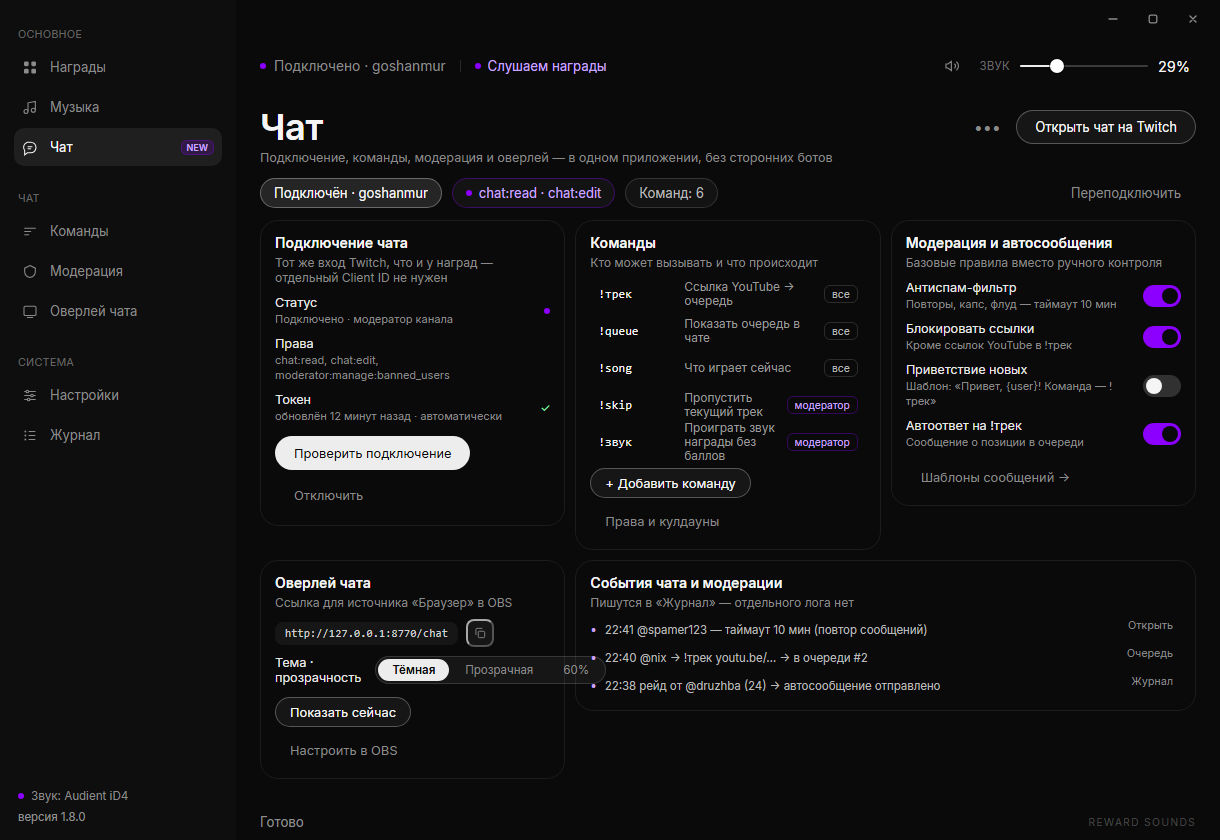
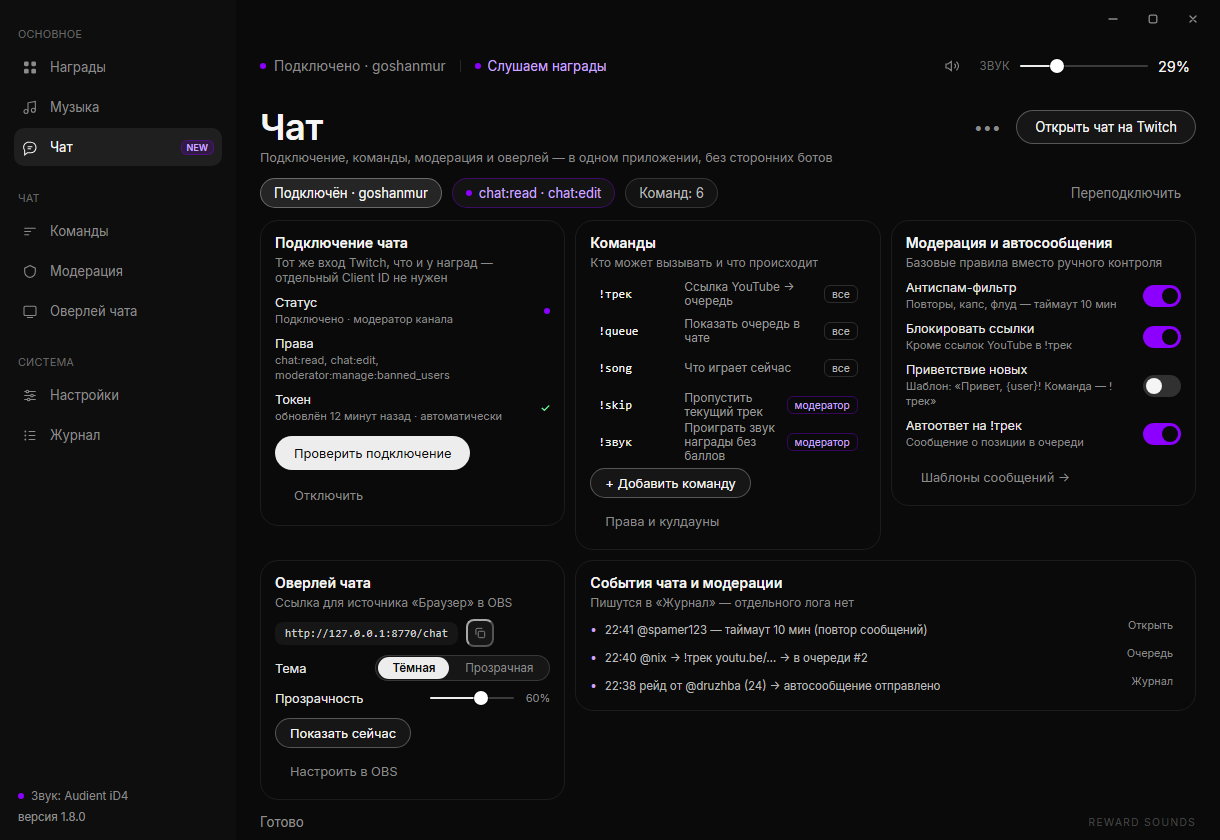
design: исправить макет оверлея чата; backend: реальный статус чата и оверлея
- макет chat-tab: «Тема» и «Прозрачность» разведены на отдельные строки
  (сегмент темы + слайдер прозрачности 60%), перегенерирован PNG;
- Snapshot музыки получил chat_online/overlay_ready: чат-ридер сообщает
  о подключении, HTTP-оверлей — о занятом порте; это основа статус-хаба;
- старый egui-демо и примеры обновлены под новые поля.

Changed region(s): [[0.218, 0.7738, 0.4984, 0.9286]]

diff --git a/.design/ux-review/2026-11-r2/mockups/chat-tab.html b/.design/ux-review/2026-11-r2/mockups/chat-tab.html
@@ -127,8 +127,13 @@
             <code>http://127.0.0.1:8770/chat</code>
             <button class="copy-btn"><svg width="14" height="14" viewBox="0 0 24 24" fill="none" stroke="#8B8B8B" stroke-width="1.6"><rect x="9" y="9" width="11" height="11" rx="2"/><path d="M5 15V6a2 2 0 0 1 2-2h9"/></svg></button>
           </div>
-          <div class="settings-row"><div><div class="settings-row-title">Тема · прозрачность</div></div>
-            <div class="seg" style="height:28px"><button class="seg-item active" style="height:22px;font-size:11.5px">Тёмная</button><button class="seg-item" style="height:22px;font-size:11.5px">Прозрачная</button><button class="seg-item" style="height:22px;font-size:11.5px">60%</button></div></div>
+          <div class="settings-row"><div class="settings-row-title">Тема</div>
+            <div class="seg" style="height:26px"><button class="seg-item active" style="height:22px;font-size:11.5px">Тёмная</button><button class="seg-item" style="height:22px;font-size:11.5px">Прозрачная</button></div></div>
+          <div class="settings-row"><div class="settings-row-title">Прозрачность</div>
+            <div class="mock-slider-row">
+              <div class="slider mock-slider"><div class="track"></div><div class="fill" style="width:60%"></div><div class="knob" style="left:60%"></div></div>
+              <span class="mock-slider-value">60%</span>
+            </div></div>
           <div class="settings-actions"><button class="btn btn-sm btn-secondary">Показать сейчас</button><button class="btn btn-sm btn-ghost">Настроить в OBS</button></div>
         </div>
 

diff --git a/.design/ux-review/2026-11-r2/mockups/mock.css b/.design/ux-review/2026-11-r2/mockups/mock.css
@@ -225,3 +225,9 @@ body {
 .zone-danger { border: 1px solid rgba(239,68,68,.25); border-radius: 12px; padding: 10px 12px; background: rgba(239,68,68,.04); }
 .zone-danger .zt { font-size: 10px; letter-spacing: .8px; color: #FCA5A5; font-weight: 600; margin-bottom: 8px; }
 .hint-ok { font-size: 11.4px; color: #86EFAC; }
+
+/* Оверлей чата: тема и прозрачность — разные строки, не один сегмент. */
+.mock-slider-row { display: flex; align-items: center; gap: 8px; flex: 0 0 auto; }
+.mock-slider { width: 84px; }
+.mock-slider-value { font-size: 11px; color: #8B8B8B; min-width: 28px; text-align: right; }
+.settings-row .seg { flex: 0 0 auto; }

diff --git a/reward-sounds/src/music/service.rs b/reward-sounds/src/music/service.rs
@@ -80,6 +80,10 @@ pub struct Snapshot {
     /// Размер шрифта оверлея.
     pub overlay_font: u32,
     pub error: Option<String>,
+    /// Чат канала подключён: команда `!трек` действительно доступна.
+    pub chat_online: bool,
+    /// HTTP-оверлей поднялся и слушает порт.
+    pub overlay_ready: bool,
 }
 
 impl Snapshot {
@@ -148,6 +152,8 @@ pub(super) enum Cmd {
     Recheck,
     SetPaused(bool),
     SetVolume(f32),
+    /// Состояние подключения к чату (true — читаем сообщения).
+    ChatState(bool),
     Validated(Result<QueueItem, (String, String)>),
     AudioReady {
         video_id: String,
@@ -323,6 +329,8 @@ fn run(
     let mut start_generation: u64 = 0;
     /// Видели ли, что текущий трек действительно играет (позиция внутри).
     let mut seen_running = false;
+    /// Подключён ли читатель чата (команда `!трек` реально доступна).
+    let mut chat_online = false;
 
     let data_dir = temp_dir
         .parent()
@@ -593,6 +601,9 @@ fn run(
                     );
                 }
             }
+            Ok(Cmd::ChatState(online)) => {
+                chat_online = online;
+            }
             Ok(Cmd::Replay(redemption_id)) => {
                 if let Some(item) = queue
                     .items()
@@ -787,6 +798,7 @@ fn run(
             };
             snapshot.overlay_position = config.overlay_position.clone();
             snapshot.overlay_font = config.overlay_font;
+            snapshot.chat_online = chat_online;
             snapshot.error = if version.is_none() {
                 Some("yt-dlp не найден: положите yt-dlp.exe рядом с программой".to_string())
             } else {

diff --git a/reward-sounds/src/music/chat.rs b/reward-sounds/src/music/chat.rs
@@ -15,7 +15,6 @@ use std::thread;
 use std::time::Duration;
 
 use super::service::Cmd;
-
 /// Команды, которые показывают оверлей.
 const COMMANDS: [&str; 2] = ["!трек", "!track"];
 
@@ -26,6 +25,7 @@ pub fn spawn(channel: &str, tx: Sender<Cmd>) {
     let channel = channel.trim().to_lowercase();
     if channel.is_empty() {
         log::info!("Чат: канал не известен, команда !трек недоступна");
+        let _ = tx.send(Cmd::ChatState(false));
         return;
     }
 
@@ -43,6 +43,7 @@ pub fn spawn(channel: &str, tx: Sender<Cmd>) {
                     );
                     let _ = writer.write_all(hello.as_bytes());
                     log::info!("Чат: подключён к каналу #{channel}, команда !трек доступна");
+                    let _ = tx.send(Cmd::ChatState(true));
 
                     let reader = BufReader::new(stream);
                     for line in reader.lines().map_while(Result::ok) {
@@ -61,9 +62,11 @@ pub fn spawn(channel: &str, tx: Sender<Cmd>) {
                         }
                     }
                     log::warn!("Чат: соединение закрыто, переподключаемся");
+                    let _ = tx.send(Cmd::ChatState(false));
                 }
                 Err(err) => {
                     log::warn!("Чат: не удалось подключиться ({err}), переподключаемся");
+                    let _ = tx.send(Cmd::ChatState(false));
                 }
             }
             thread::sleep(Duration::from_secs(15));

diff --git a/reward-sounds/src/music/overlay.rs b/reward-sounds/src/music/overlay.rs
@@ -25,8 +25,14 @@ pub fn spawn(state: Arc<Mutex<Snapshot>>, port: u16) {
         .spawn(move || {
             let Ok(listener) = TcpListener::bind(("127.0.0.1", port)) else {
                 log::warn!("Оверлей: порт {port} занят, строка «Сейчас играет» недоступна");
+                if let Ok(mut snapshot) = state.lock() {
+                    snapshot.overlay_ready = false;
+                }
                 return;
             };
+            if let Ok(mut snapshot) = state.lock() {
+                snapshot.overlay_ready = true;
+            }
             log::info!("Оверлей: http://127.0.0.1:{port}/overlay");
 
             for stream in listener.incoming().flatten() {

diff --git a/reward-sounds/src/app.rs b/reward-sounds/src/app.rs
@@ -523,6 +523,8 @@ impl RewardSoundsApp {
             overlay_position: "top".to_string(),
             overlay_font: 17,
             error: None,
+            chat_online: true,
+            overlay_ready: true,
         };
         if let Some(tab) = std::env::var_os("REWARD_SOUNDS_DEMO_TAB") {
             match tab.to_string_lossy().to_lowercase().as_str() {
